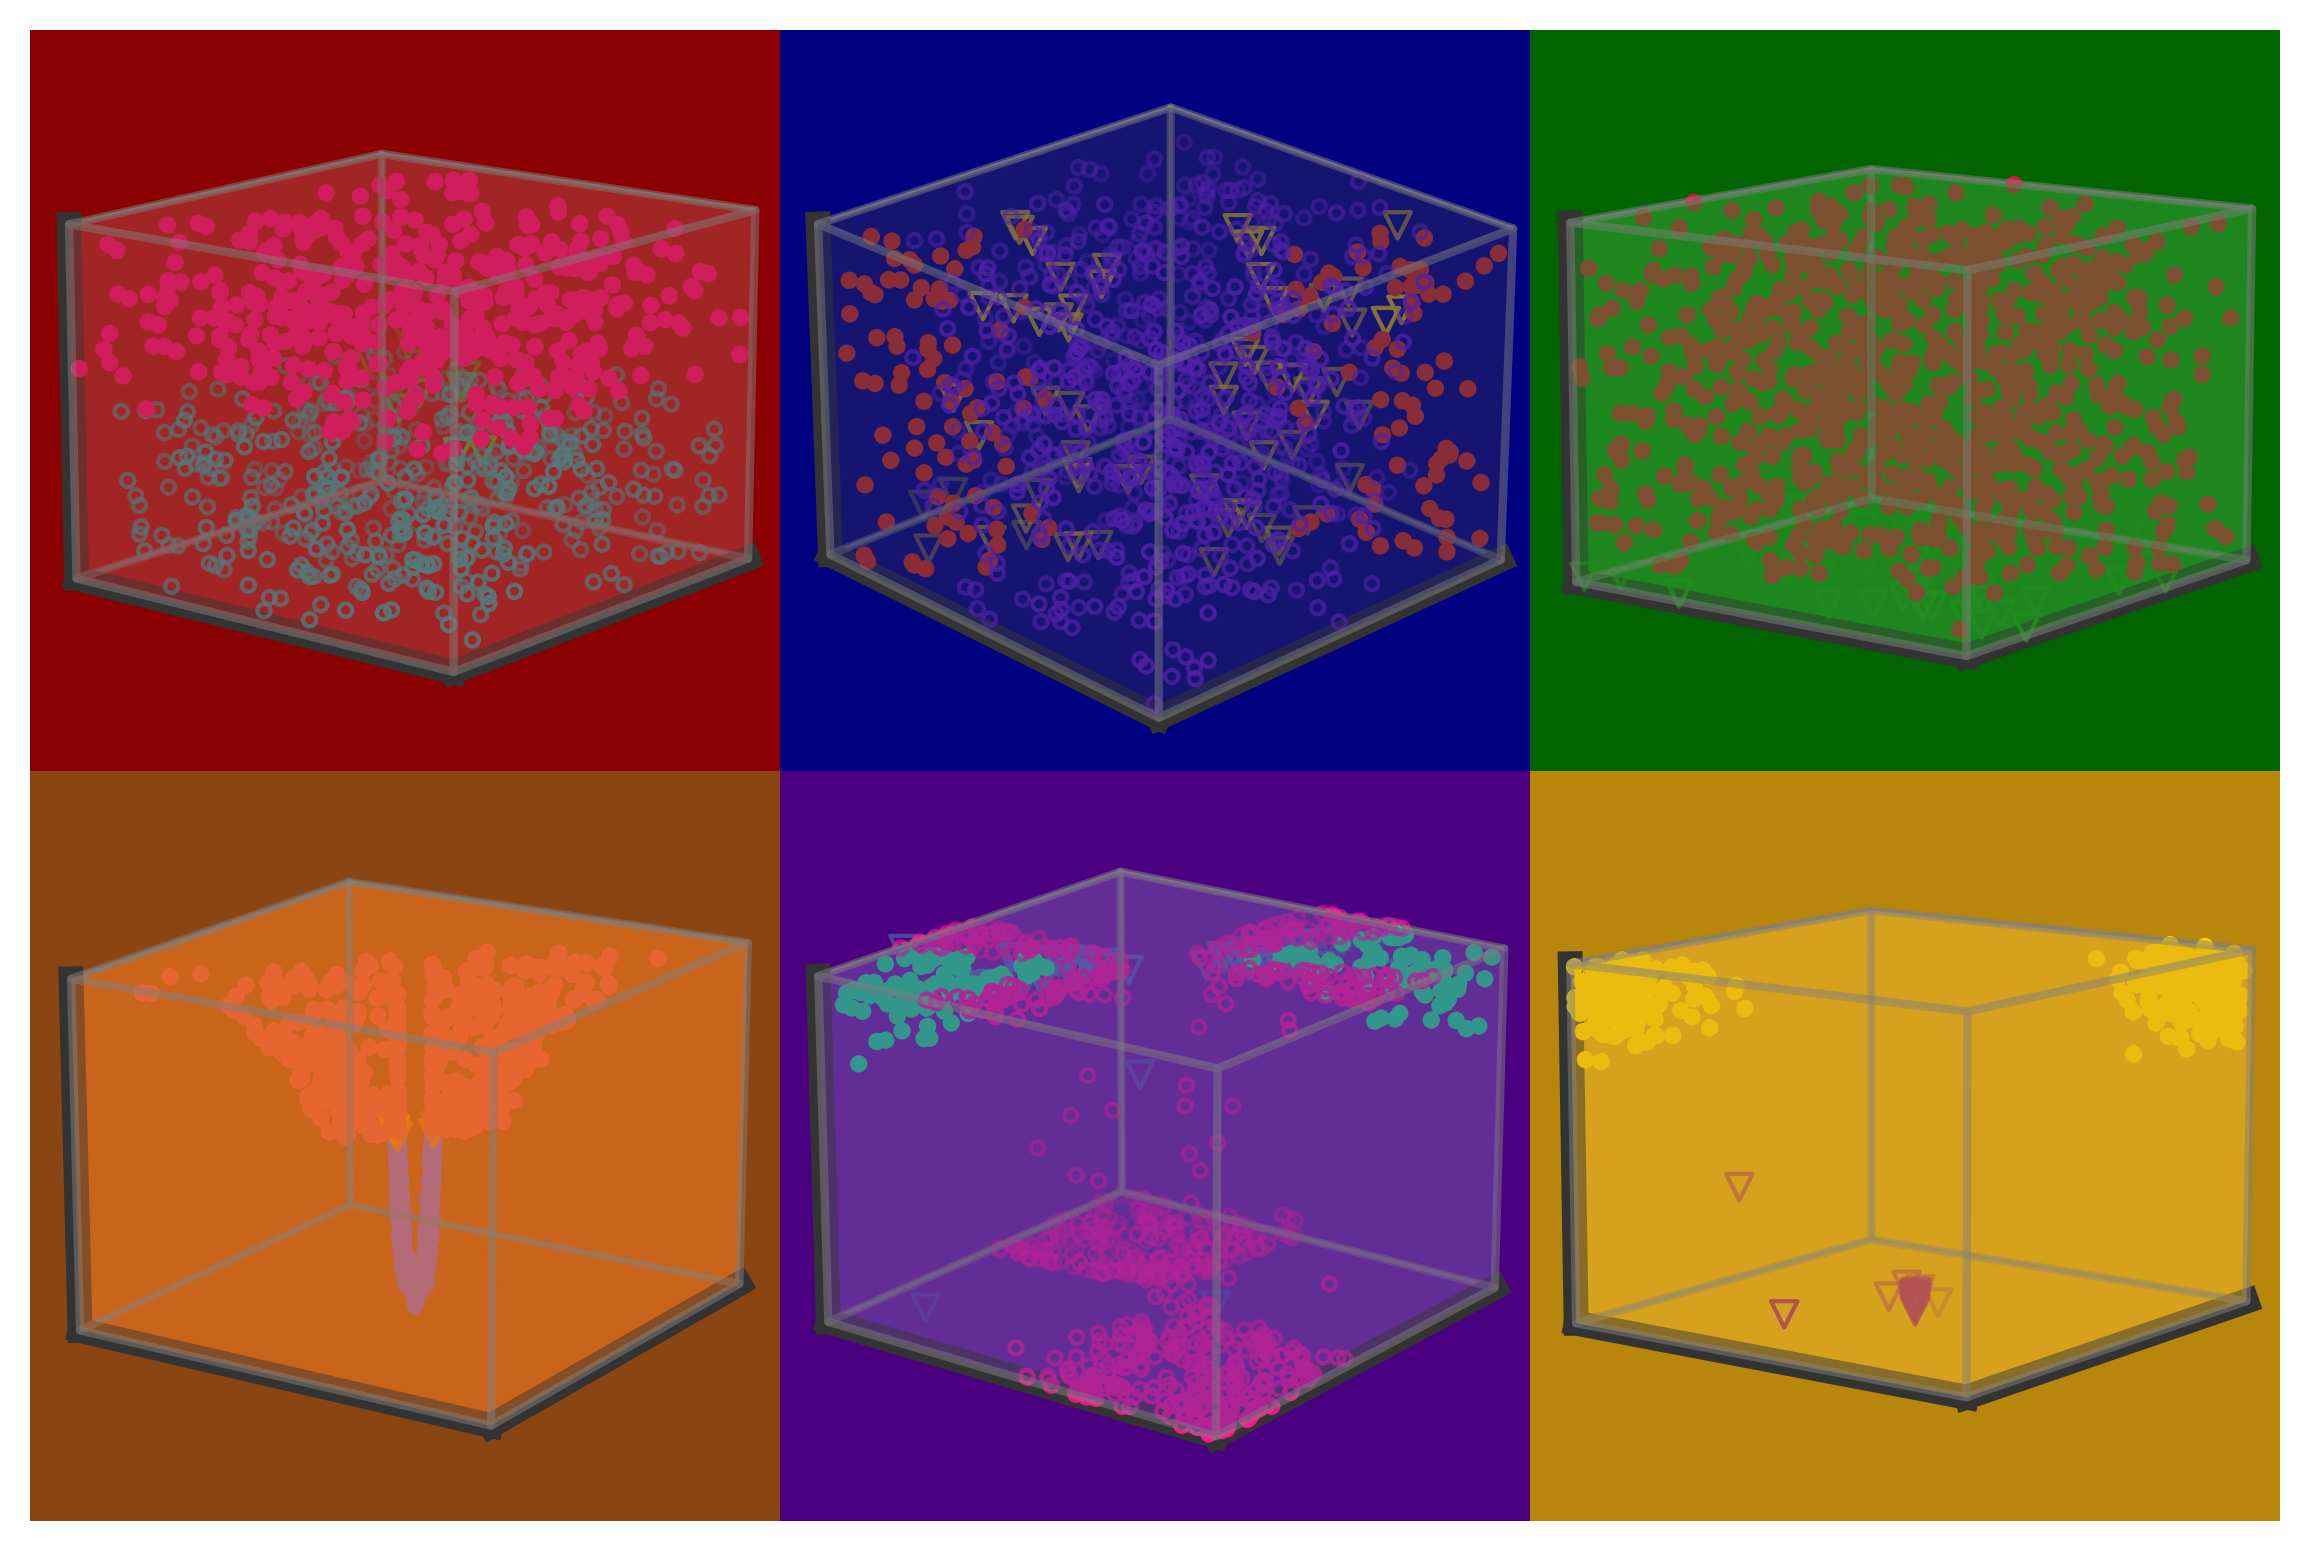
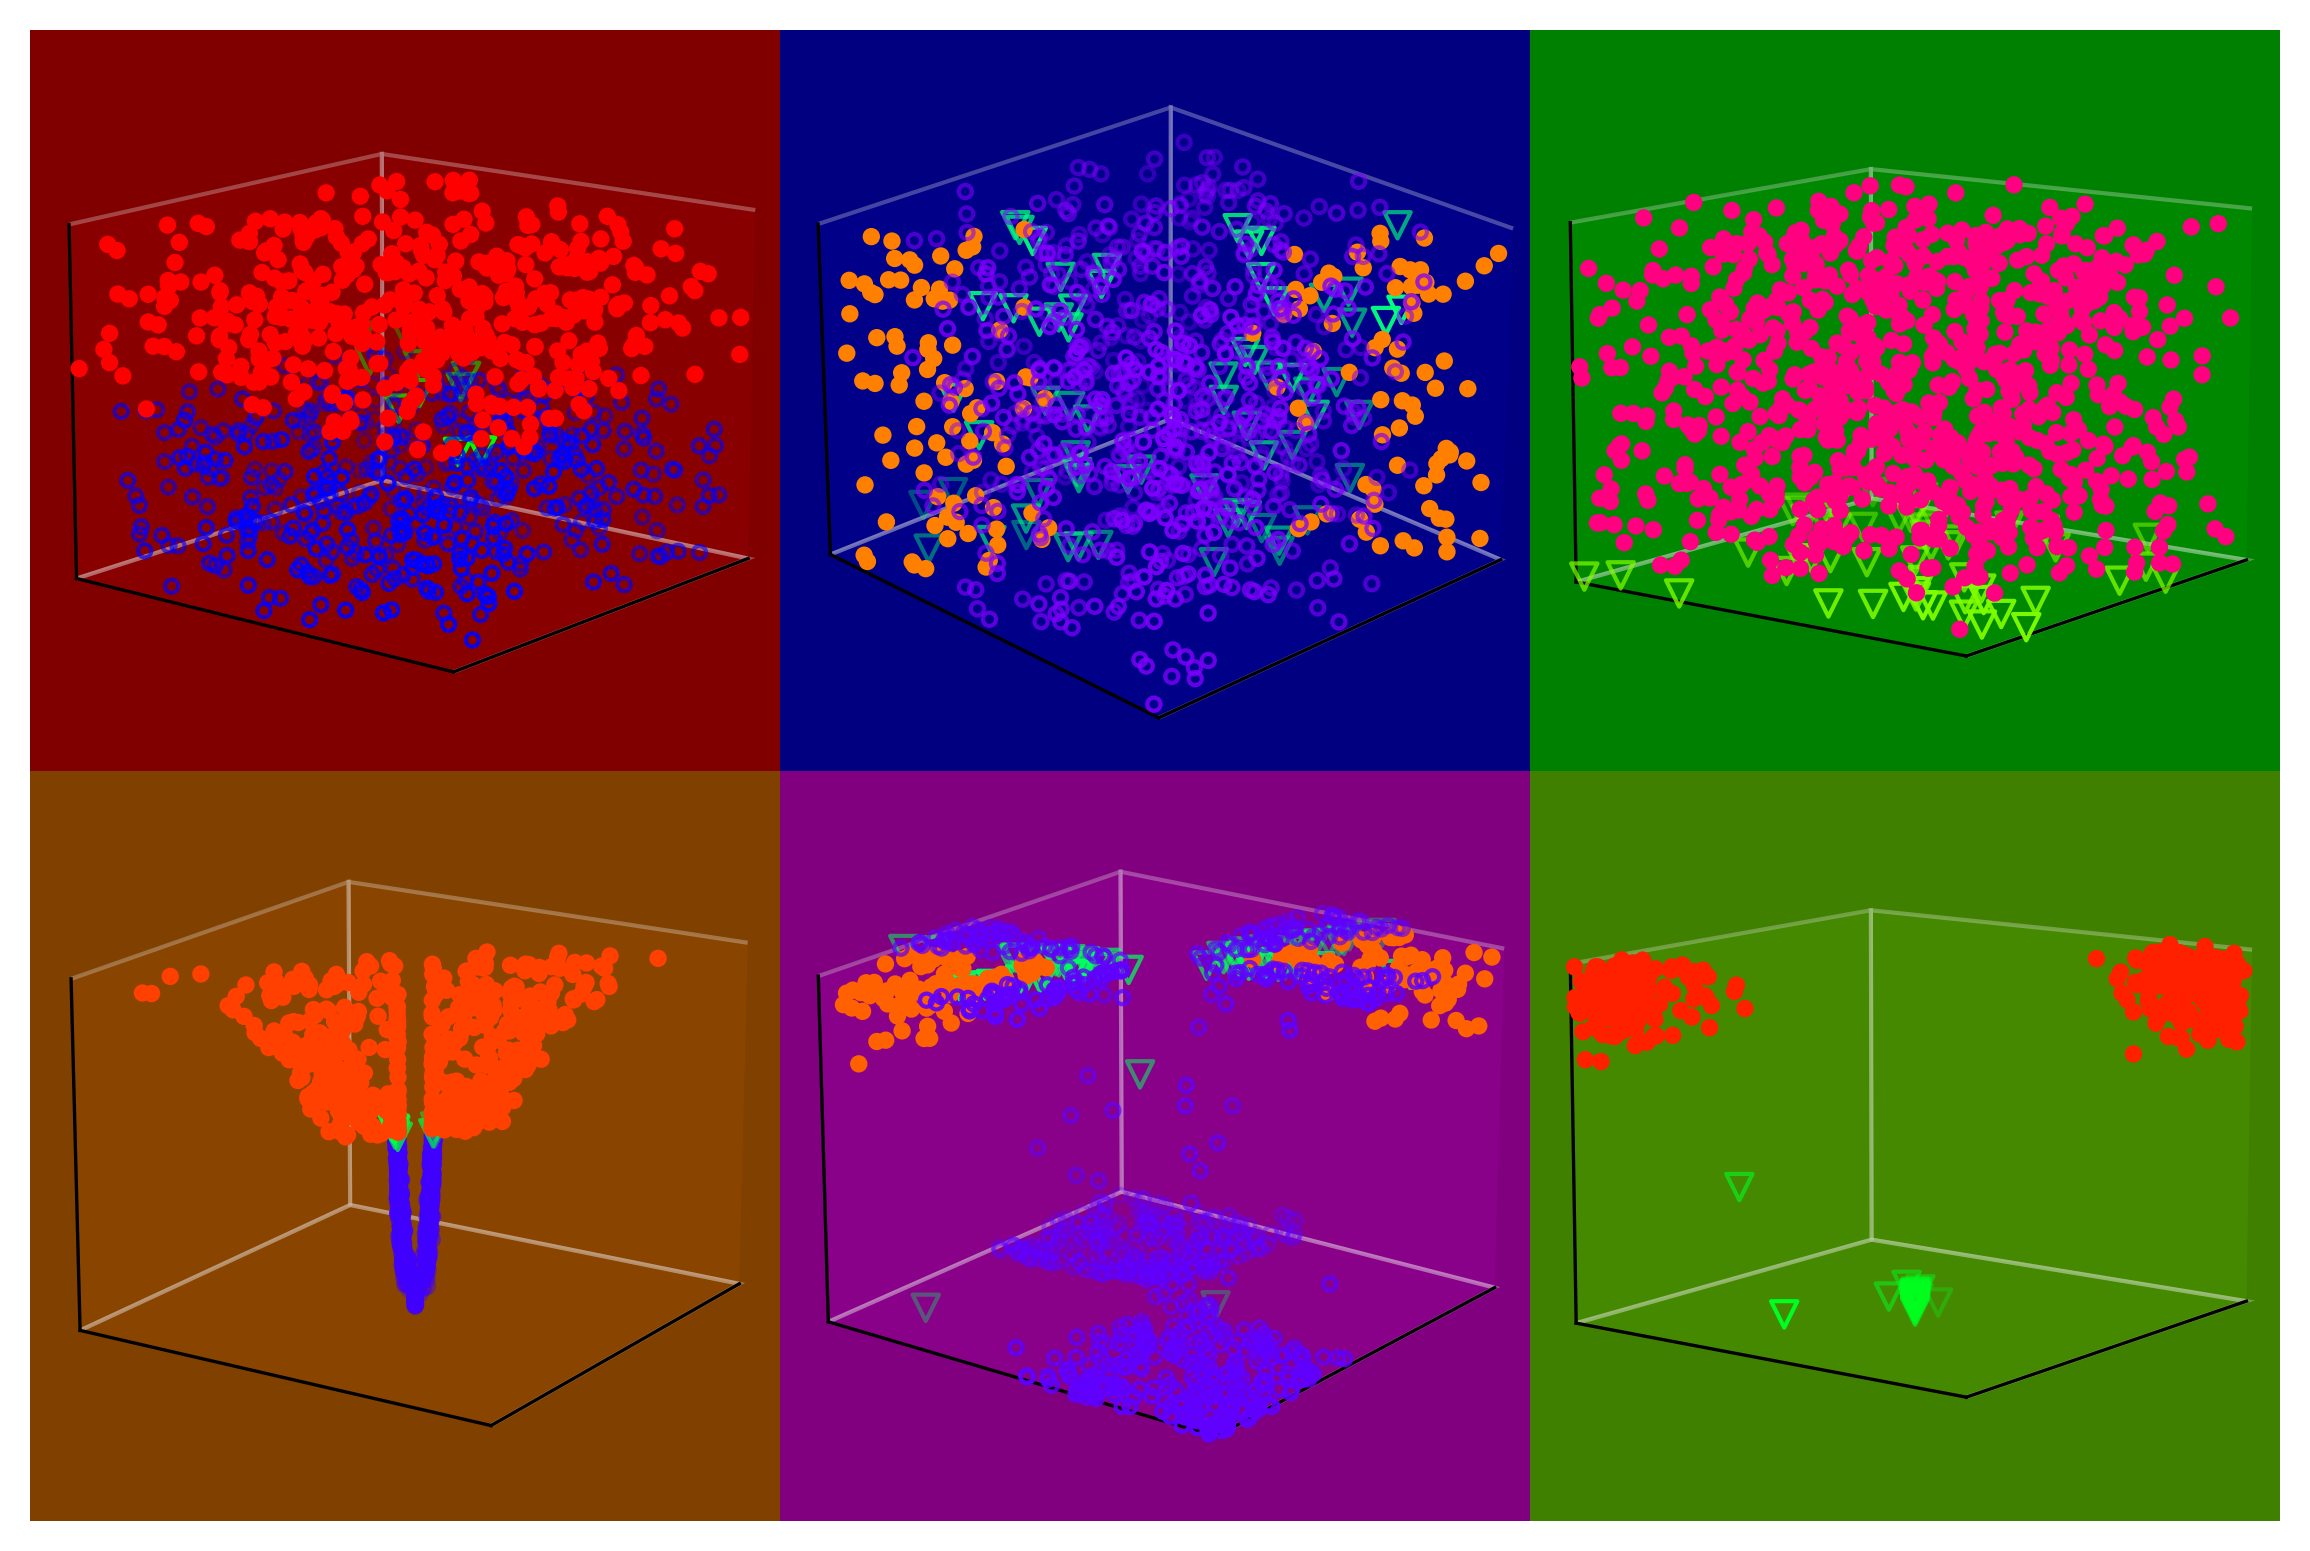
various changes

diff --git a/XOR/XOR_back_grid_only.py b/XOR/XOR_back_grid_only.py
@@ -51,33 +51,153 @@ def create_back_grid(ax, xlim, ylim, zlim, grid_density=5, color='white', alpha=
 def create_plots():
     json_files = ['W_test_161','just_location1','both']
     
-    # Define the grid styles to regenerate
-    styles = {
-        'full_grid_neon': {
-            'name': 'FullGridNeon',
-            'palette': 'electric',
-            'grid_density': 6,
-            'grid_alpha': 0.4,
-            'grid_linewidth': 0.6
+    # Define all color palettes with WITH GRID and WITHOUT GRID versions
+    all_styles = {
+        # PASTEL palette - with and without grid
+        'pastel': {
+            'name': 'Pastel',
+            'palette': 'pastel',
+            'has_grid': False
         },
-        'full_grid_bold': {
-            'name': 'FullGridBold', 
-            'palette': 'bold',
+        'pastel_grid': {
+            'name': 'PastelGrid',
+            'palette': 'pastel',
+            'has_grid': True,
+            'grid_density': 5,
+            'grid_alpha': 0.4,
+            'grid_linewidth': 0.8
+        },
+        
+        # VIBRANT palette - with and without grid
+        'vibrant': {
+            'name': 'Vibrant',
+            'palette': 'vibrant',
+            'has_grid': False
+        },
+        'vibrant_grid': {
+            'name': 'VibrantGrid',
+            'palette': 'vibrant',
+            'has_grid': True,
             'grid_density': 5,
             'grid_alpha': 0.6,
-            'grid_linewidth': 1.0
+            'grid_linewidth': 1.2
         },
-        'full_grid_subtle': {
-            'name': 'FullGridSubtle',
+        
+        # PROFESSIONAL palette - with and without grid
+        'professional': {
+            'name': 'Professional',
+            'palette': 'professional',
+            'has_grid': False
+        },
+        'professional_grid': {
+            'name': 'ProfessionalGrid',
+            'palette': 'professional',
+            'has_grid': True,
+            'grid_density': 6,
+            'grid_alpha': 0.5,
+            'grid_linewidth': 0.9
+        },
+        
+        # ELECTRIC palette - with and without grid
+        'electric': {
+            'name': 'Electric',
+            'palette': 'electric',
+            'has_grid': False
+        },
+        'electric_grid': {
+            'name': 'ElectricGrid',
+            'palette': 'electric',
+            'has_grid': True,
+            'grid_density': 6,
+            'grid_alpha': 0.5,
+            'grid_linewidth': 0.7
+        },
+        
+        # BOLD palette - with and without grid
+        'bold': {
+            'name': 'Bold',
+            'palette': 'bold',
+            'has_grid': False
+        },
+        'bold_grid': {
+            'name': 'BoldGrid',
+            'palette': 'bold',
+            'has_grid': True,
+            'grid_density': 5,
+            'grid_alpha': 0.7,
+            'grid_linewidth': 1.3
+        },
+        
+        # MUTED palette - with and without grid
+        'muted': {
+            'name': 'Muted',
             'palette': 'muted',
-            'grid_density': 7,
-            'grid_alpha': 0.2,
-            'grid_linewidth': 0.4
+            'has_grid': False
+        },
+        'muted_grid': {
+            'name': 'MutedGrid',
+            'palette': 'muted',
+            'has_grid': True,
+            'grid_density': 6,
+            'grid_alpha': 0.4,
+            'grid_linewidth': 0.8
         }
     }
     
-    # Color palettes
+    # List of styles to run (all palettes with and without grids)
+    styles_to_run = [
+        'pastel', 'pastel_grid',
+        'vibrant', 'vibrant_grid', 
+        'professional', 'professional_grid',
+        'electric', 'electric_grid',
+        'bold', 'bold_grid',
+        'muted', 'muted_grid'
+    ]
+    
+    # Filter styles to only run the selected ones
+    styles = {k: all_styles[k] for k in styles_to_run if k in all_styles}
+    
+    # All color palettes
     palettes = {
+        'pastel': {
+            'color_schemes': [
+                {'conv': '#8B4B8A', 'non_conv': '#5B7C99', 'non_conv_exp': '#6B8B3D'},
+                {'conv': '#A0522D', 'non_conv': '#CD853F', 'non_conv_exp': '#708090'},
+                {'conv': '#B22222', 'non_conv': '#4682B4', 'non_conv_exp': '#2F4F4F'},
+                {'conv': '#DAA520', 'non_conv': '#9932CC', 'non_conv_exp': '#191970'},
+                {'conv': '#228B22', 'non_conv': '#FF6347', 'non_conv_exp': '#696969'},
+                {'conv': '#B8860B', 'non_conv': '#008B8B', 'non_conv_exp': '#800000'}
+            ],
+            'panel_backgrounds': ['#F8F8FF', '#F5F5DC', '#F0F8FF', '#FFFAF0', '#FFF8DC', '#F5F5F5'],
+            'cube_colors': ['#FAFAFA', '#FEFEFE', '#FDFDFD', '#FCFCFC', '#FBFBFB', '#F9F9F9'],
+            'grid_color': '#333333'  # Dark grid for light backgrounds
+        },
+        'vibrant': {
+            'color_schemes': [
+                {'conv': '#FF1493', 'non_conv': '#00CED1', 'non_conv_exp': '#32CD32'},
+                {'conv': '#FF4500', 'non_conv': '#8A2BE2', 'non_conv_exp': '#FFD700'},
+                {'conv': '#DC143C', 'non_conv': '#4169E1', 'non_conv_exp': '#228B22'},
+                {'conv': '#FF6347', 'non_conv': '#9370DB', 'non_conv_exp': '#FF8C00'},
+                {'conv': '#00FF7F', 'non_conv': '#FF1493', 'non_conv_exp': '#4682B4'},
+                {'conv': '#FFD700', 'non_conv': '#DC143C', 'non_conv_exp': '#8B008B'}
+            ],
+            'panel_backgrounds': ['#8B0000', '#000080', '#006400', '#8B4513', '#4B0082', '#B8860B'],
+            'cube_colors': ['#A52A2A', '#191970', '#228B22', '#D2691E', '#663399', '#DAA520'],
+            'grid_color': '#FFFFFF'  # White grid for dark backgrounds
+        },
+        'professional': {
+            'color_schemes': [
+                {'conv': '#2E86AB', 'non_conv': '#A23B72', 'non_conv_exp': '#F18F01'},
+                {'conv': '#6A994E', 'non_conv': '#BC4749', 'non_conv_exp': '#F2E8CF'},
+                {'conv': '#264653', 'non_conv': '#E76F51', 'non_conv_exp': '#F4A261'},
+                {'conv': '#7209B7', 'non_conv': '#F72585', 'non_conv_exp': '#4361EE'},
+                {'conv': '#F72585', 'non_conv': '#4CC9F0', 'non_conv_exp': '#7209B7'},
+                {'conv': '#FF6B35', 'non_conv': '#004E89', 'non_conv_exp': '#1A936F'}
+            ],
+            'panel_backgrounds': ['#FAFAFA', '#F5F5F5', '#FFFFFF', '#F8F9FA', '#FDFDFD', '#F7F7F7'],
+            'cube_colors': ['#E8E8E8', '#EEEEEE', '#F0F0F0', '#EDEDED', '#EBEBEB', '#E9E9E9'],
+            'grid_color': '#666666'  # Medium gray grid for light backgrounds
+        },
         'electric': {
             'color_schemes': [
                 {'conv': '#00FFFF', 'non_conv': '#FF00FF', 'non_conv_exp': '#FFFF00'},
@@ -88,7 +208,8 @@ def create_plots():
                 {'conv': '#FF8040', 'non_conv': '#40FF40', 'non_conv_exp': '#8080FF'}
             ],
             'panel_backgrounds': ['#000000', '#0A0A0A', '#050505', '#080808', '#030303', '#0C0C0C'],
-            'cube_colors': ['#1A1A1A', '#151515', '#121212', '#181818', '#0F0F0F', '#1C1C1C']
+            'cube_colors': ['#1A1A1A', '#151515', '#121212', '#181818', '#0F0F0F', '#1C1C1C'],
+            'grid_color': '#FFFFFF'  # White grid for black backgrounds
         },
         'bold': {
             'color_schemes': [
@@ -100,7 +221,8 @@ def create_plots():
                 {'conv': '#FF2000', 'non_conv': '#2000FF', 'non_conv_exp': '#00FF20'}
             ],
             'panel_backgrounds': ['#800000', '#000080', '#008000', '#804000', '#800080', '#408000'],
-            'cube_colors': ['#A00000', '#0000A0', '#00A000', '#A05000', '#A000A0', '#50A000']
+            'cube_colors': ['#A00000', '#0000A0', '#00A000', '#A05000', '#A000A0', '#50A000'],
+            'grid_color': '#CCCCCC'  # Light gray grid for dark colored backgrounds
         },
         'muted': {
             'color_schemes': [
@@ -112,7 +234,8 @@ def create_plots():
                 {'conv': '#8B5573', 'non_conv': '#738B55', 'non_conv_exp': '#558B73'}
             ],
             'panel_backgrounds': ['#F5F5DC', '#E6E6FA', '#F0FFF0', '#FFF8DC', '#FFE4E1', '#F0F8FF'],
-            'cube_colors': ['#FAEBD7', '#F8F8FF', '#F5FFFA', '#FFFACD', '#FFEBCD', '#F0FFFF']
+            'cube_colors': ['#FAEBD7', '#F8F8FF', '#F5FFFA', '#FFFACD', '#FFEBCD', '#F0FFFF'],
+            'grid_color': '#444444'  # Dark gray grid for light muted backgrounds
         }
     }
     
@@ -204,12 +327,13 @@ def create_plots():
             ax_init.yaxis.pane.set_alpha(0.3)
             ax_init.zaxis.pane.set_alpha(0.3)
             
-            # Add back grid only
-            create_back_grid(ax_init, (-1, 1), (-1, 1), (0, 1),
-                           grid_density=style_params['grid_density'],
-                           color='white',
-                           alpha=style_params['grid_alpha'],
-                           linewidth=style_params['grid_linewidth'])
+            # Add back grid only if specified
+            if style_params.get('has_grid', False):
+                create_back_grid(ax_init, (-1, 1), (-1, 1), (0, 1),
+                               grid_density=style_params['grid_density'],
+                               color=palette['grid_color'],
+                               alpha=style_params['grid_alpha'],
+                               linewidth=style_params['grid_linewidth'])
             
             ax_init.view_init(elev=viewing_angles_init[i][0], azim=viewing_angles_init[i][1])
             
@@ -267,12 +391,13 @@ def create_plots():
             ax_final.yaxis.pane.set_alpha(0.3)
             ax_final.zaxis.pane.set_alpha(0.3)
             
-            # Add back grid only
-            create_back_grid(ax_final, (-1, 1), (-1, 1), (0, 1),
-                           grid_density=style_params['grid_density'],
-                           color='white',
-                           alpha=style_params['grid_alpha'],
-                           linewidth=style_params['grid_linewidth'])
+            # Add back grid only if specified
+            if style_params.get('has_grid', False):
+                create_back_grid(ax_final, (-1, 1), (-1, 1), (0, 1),
+                               grid_density=style_params['grid_density'],
+                               color=palette['grid_color'],
+                               alpha=style_params['grid_alpha'],
+                               linewidth=style_params['grid_linewidth'])
             
             ax_final.view_init(elev=viewing_angles_final[i][0], azim=viewing_angles_final[i][1])
         
